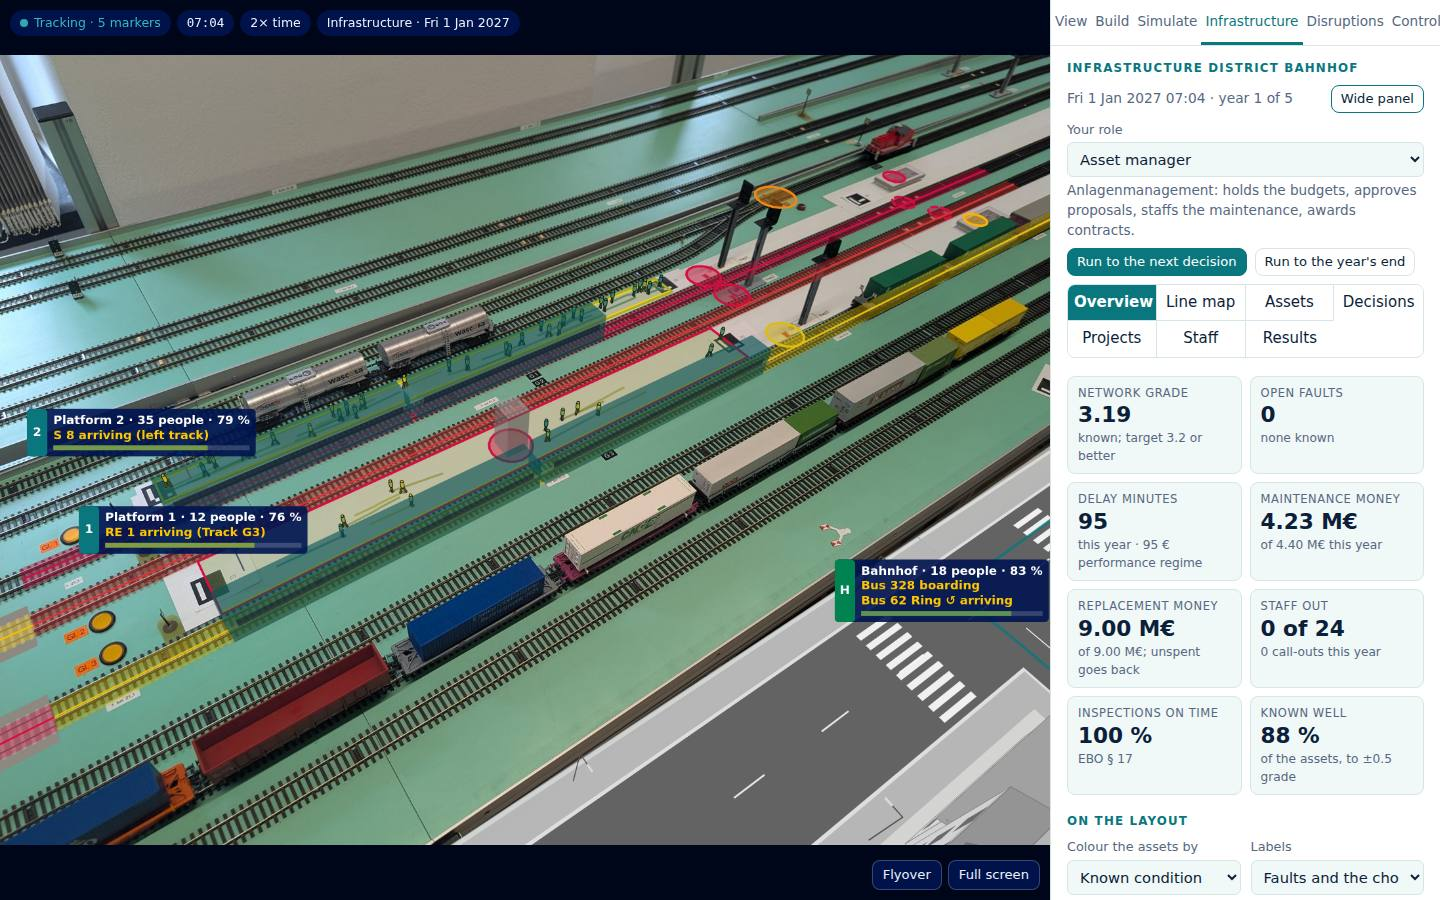
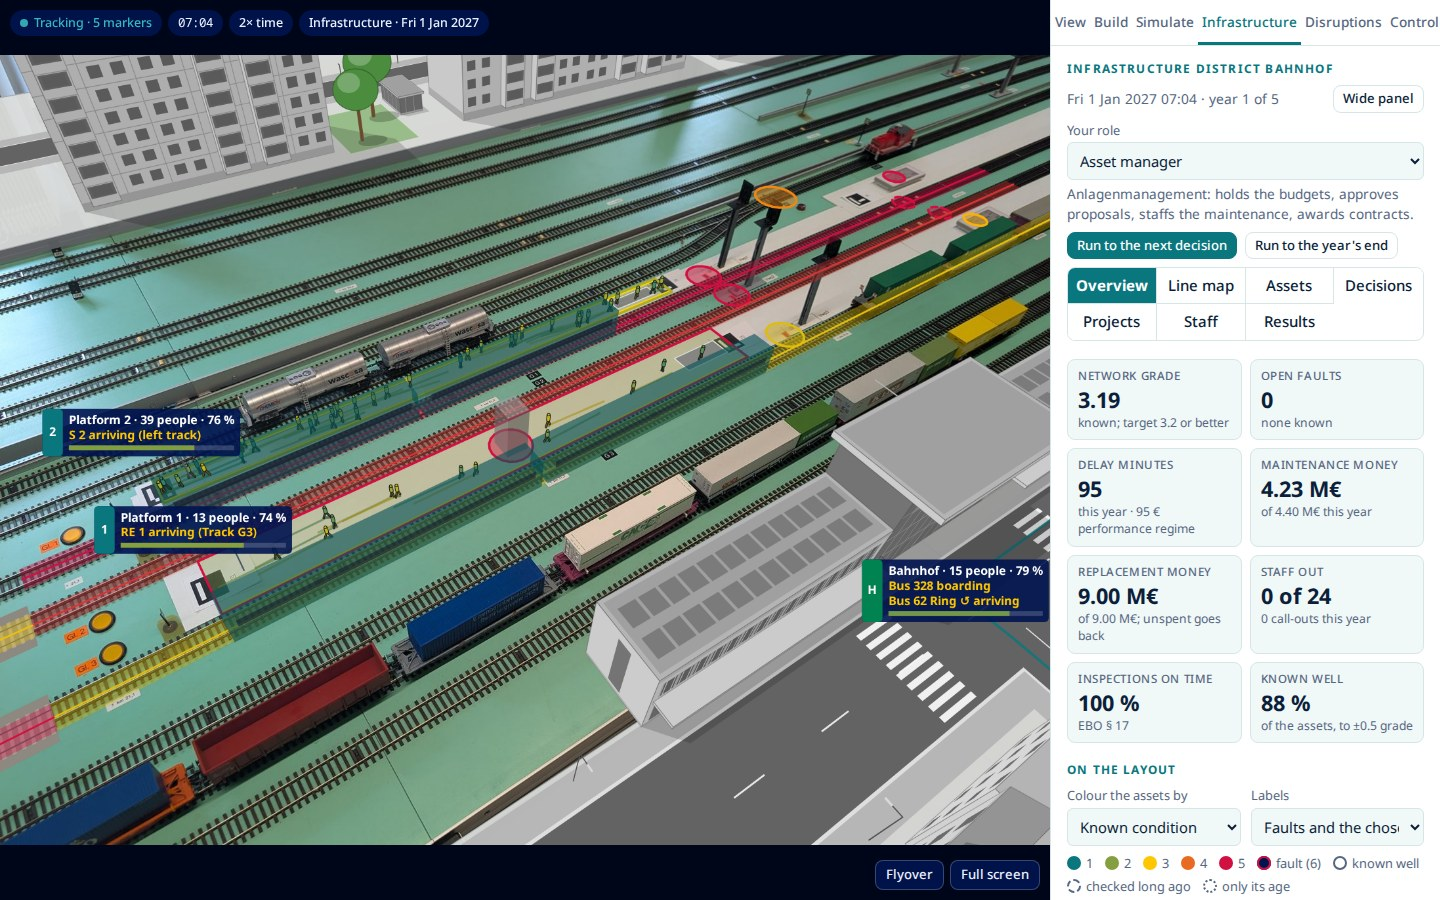
Project page: screenshots with the new station and the Plattenbau (#33)
* Project page and README: the lab photo with the new station and the Plattenbau

Rendered again from the app at 08:08 with trains boarding at both
platforms (canvas only, 1600x1205, Noto Sans).

Claude-Session: https://claude.ai/code/session_01NdefoiT7V2zQ1soiyCB5xH

* Project page: the operations, infrastructure and disruptions screenshots with the new station

Rendered again from the app (1440x900 below the header, 07:04): the
layers Rail operations and Infrastructure of the lab example, and the
scenario Rush hour with a signal failure just started.

Claude-Session: https://claude.ai/code/session_01NdefoiT7V2zQ1soiyCB5xH

---------

diff --git a/web/index.html b/web/index.html
@@ -224,7 +224,7 @@ footer a { color: inherit; }
         </div>
       </div>
       <figure class="compare" id="compare">
-        <img src="assets/ebl-lab-ar.jpg" alt="The lab table in ARail: trains at both platforms with waiting passengers, boards with the next departures, and a street with a zebra crossing on a virtual table module beyond the front edge of the table." width="1600" height="1205" fetchpriority="high">
+        <img src="assets/ebl-lab-ar.jpg" alt="The lab table in ARail: trains at both platforms with waiting passengers, boards with the next departures, a modern station building between the tracks and a street with a zebra crossing, and Plattenbau behind the tracks where the wall is in the photo." width="1600" height="1205" fetchpriority="high">
         <img class="before" src="media/ebl-lab.jpg" alt="The same model railway table as a plain photo." width="1600" height="1205">
         <input type="range" id="compareRange" min="0" max="100" value="55" aria-label="Slide between the plain photo and the augmented view">
         <span class="divider" aria-hidden="true"></span>

diff --git a/README.md b/README.md
@@ -4,7 +4,7 @@
 
 [**Open the app**](https://joernmht.github.io/ARail-EBL/app/) · [Project page](https://joernmht.github.io/ARail-EBL/) · [Print markers](https://joernmht.github.io/ARail-EBL/markers/) · [Documentation](docs/README.md)
 
-![The EBL lab table in ARail: trains at both platforms with waiting passengers, boards with the next departures, and a street on a virtual table module](web/assets/ebl-lab-ar.jpg)
+![The EBL lab table in ARail: trains at both platforms with waiting passengers, boards with the next departures, a modern station building and a street on a virtual table module, and Plattenbau behind the tracks](web/assets/ebl-lab-ar.jpg)
 
 *A photo of the railway operations lab (EBL) layout, augmented by ARail: the virtual objects are registered on the real H0 table from the printed markers alone. At the front right, a virtual table module with a street extends the table.*
 
